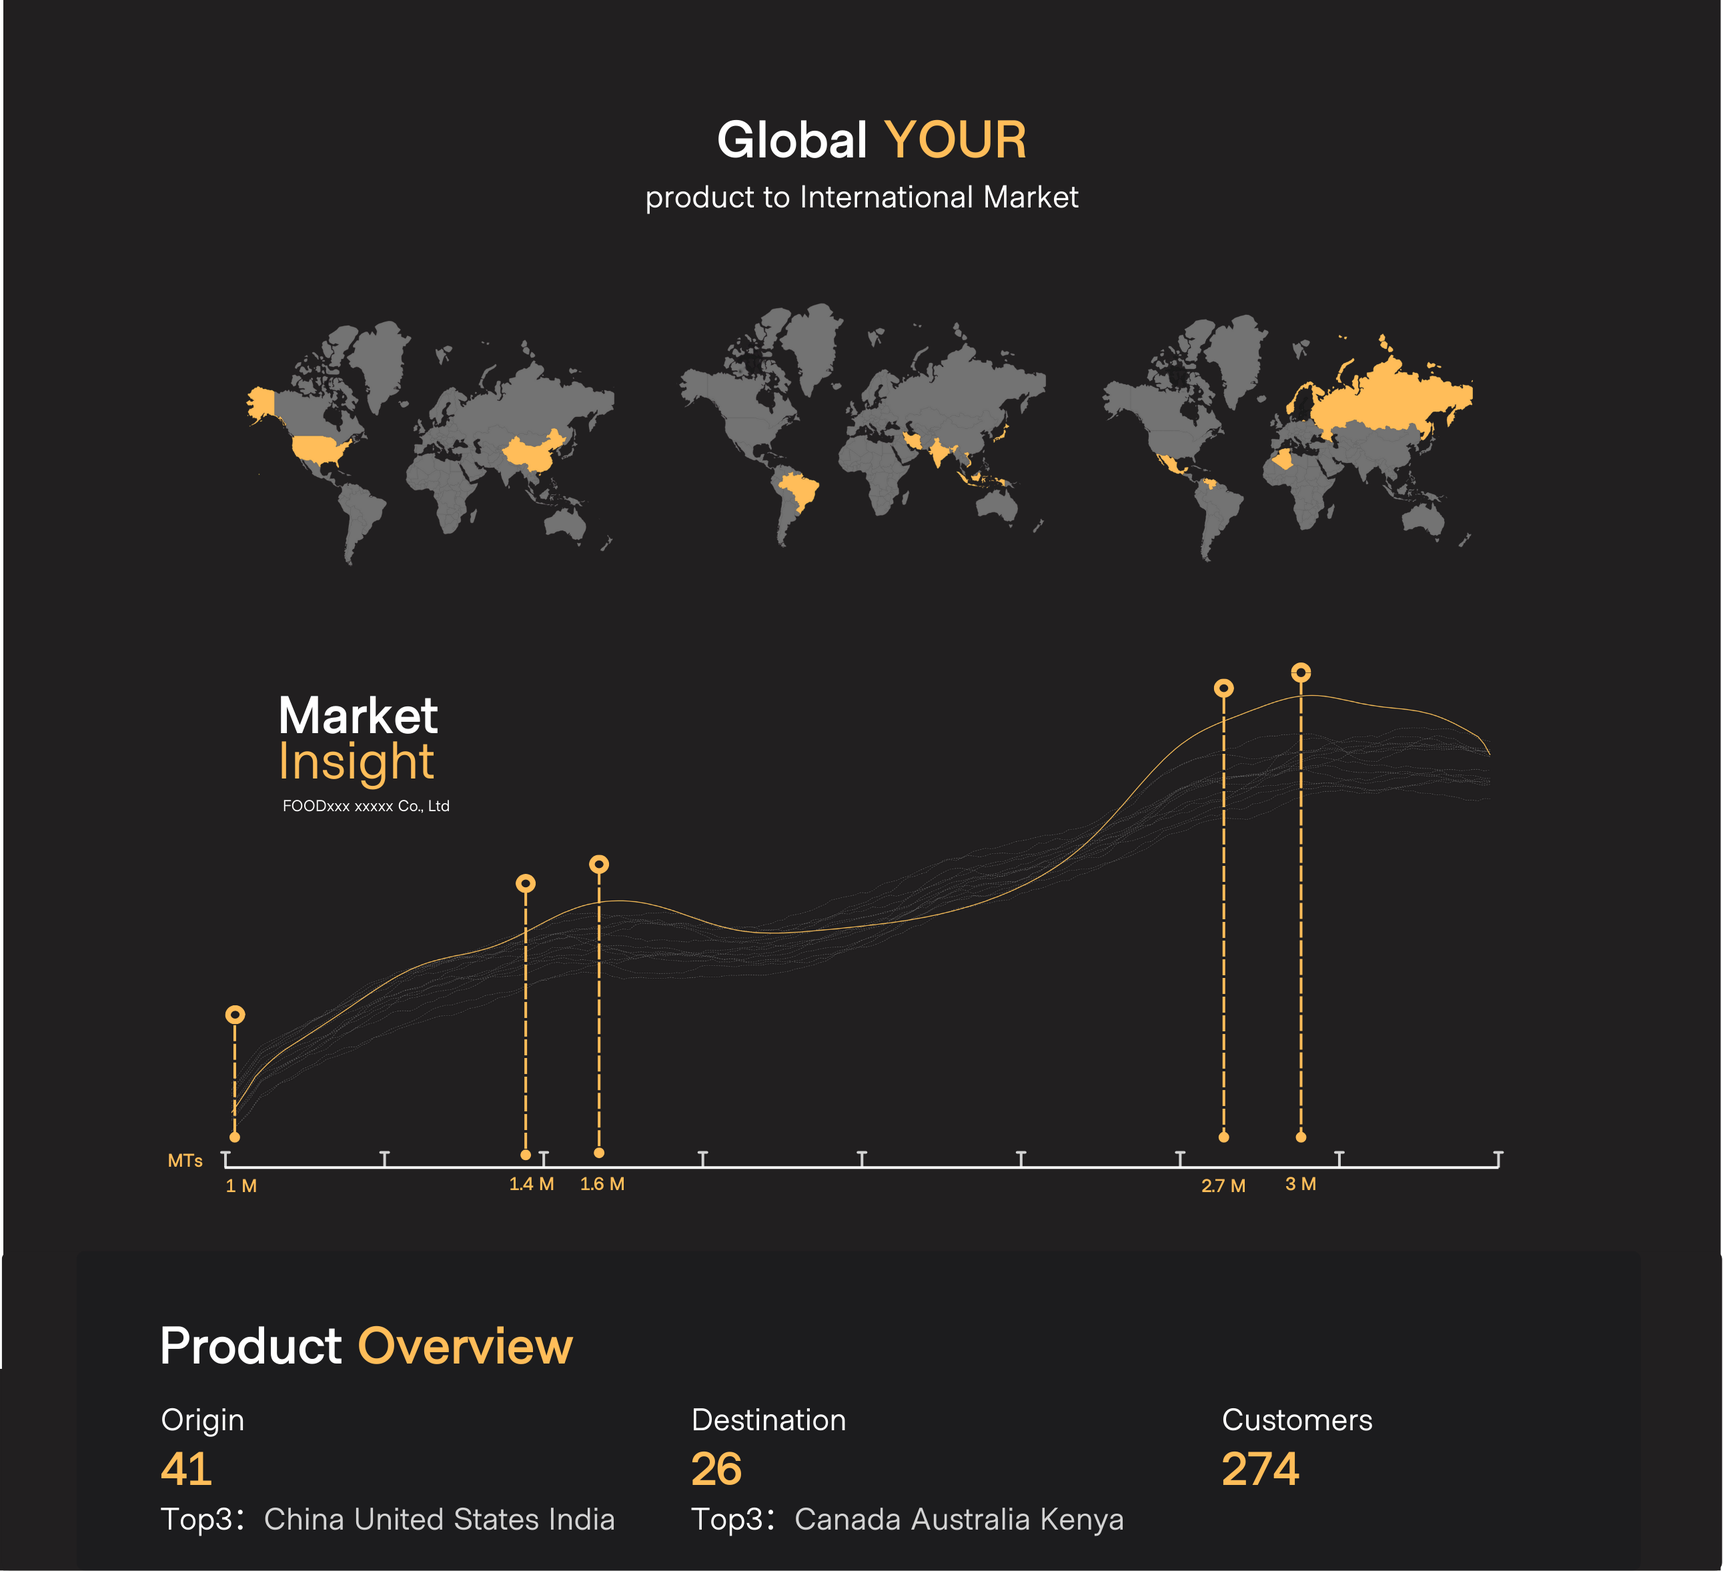
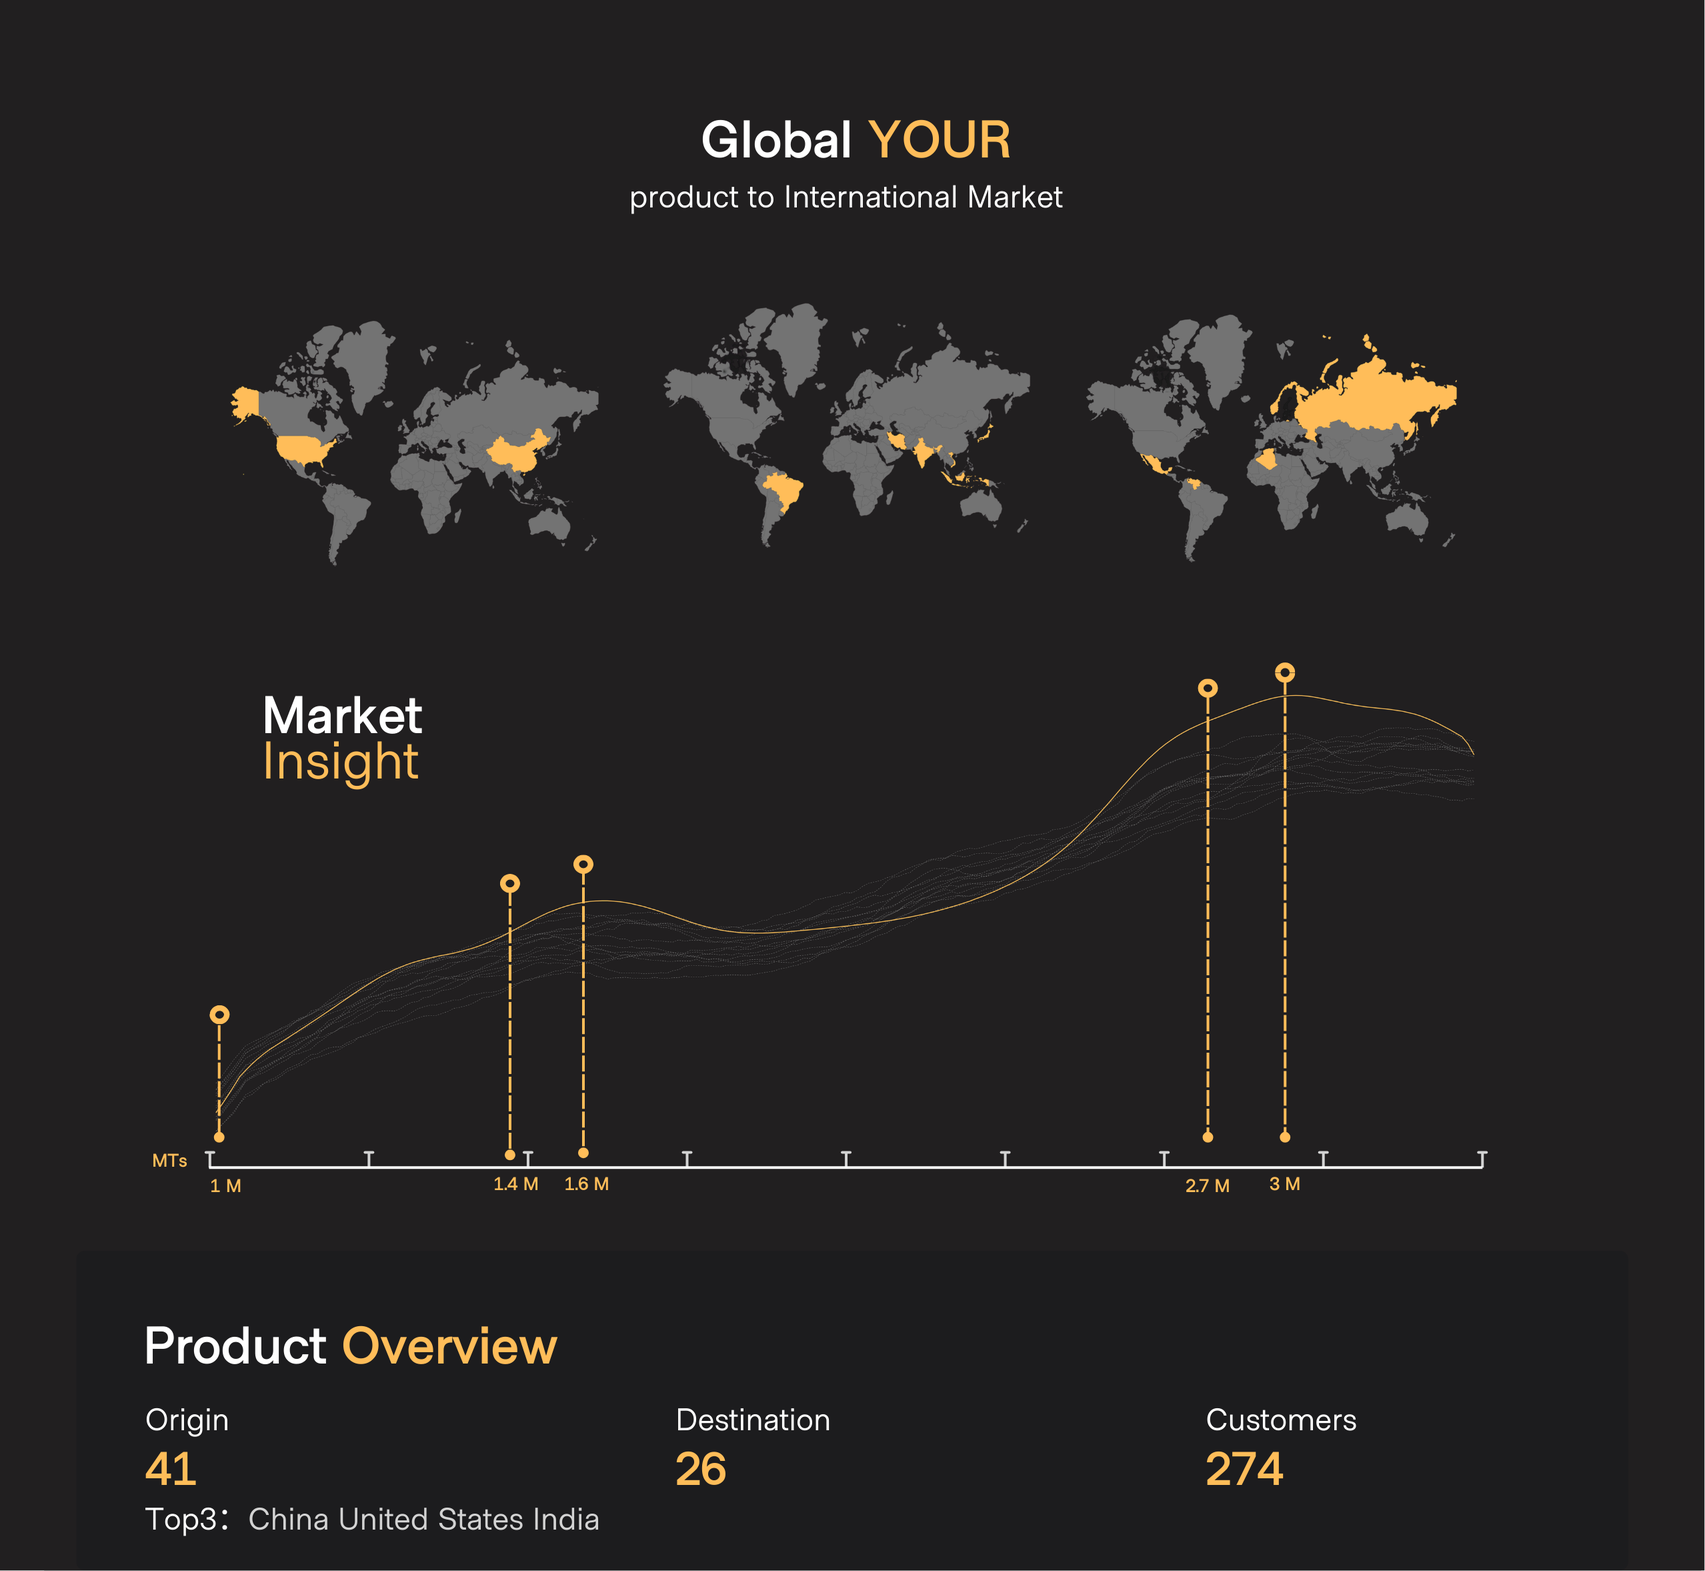
fix(home): fix color primary and design

diff --git a/src/modules/home/components/reviewSection/index.tsx b/src/modules/home/components/reviewSection/index.tsx
@@ -13,70 +13,70 @@ import { BiSolidQuoteLeft } from 'react-icons/bi'
 
 const reviews = [
   {
-    initials: 'SP',
+    sortName: 'SP',
     name: 'Somchai P.',
     role: 'Chief Data Officer',
     text: 'ก่อนทำงานกับ Origo เราใช้เวลาส่วนใหญ่ไปกับการลองผิดลองถูกหลายเดือน ทีมช่วยวิเคราะห์ให้ชัดขึ้นมาก',
     stars: 5
   },
   {
-    initials: 'NW',
+    sortName: 'NW',
     name: 'Nattaya W.',
     role: 'Founder & CEO',
     text: 'ทำให้เราเห็นชัดเลยว่าควรโฟกัสตลาดไหน และลูกค้าแบบไหน จากเดิมที่ตัดสินใจจากความรู้สึก',
     stars: 5
   },
   {
-    initials: 'PK',
+    sortName: 'PK',
     name: 'Prasert K.',
     role: 'Operations Manager',
     text: 'ยอดขายโตขึ้นอย่างมีทิศทาง และงานบริหารหลายอย่างมีระบบมากขึ้นอย่างเห็นได้ชัด',
     stars: 5
   },
   {
-    initials: 'AL',
+    sortName: 'AL',
     name: 'Anong L.',
     role: 'Export Director',
     text: 'ข้อมูลเชิงลึกช่วยให้ทีมขายคุยกับลูกค้าได้แม่นขึ้นและปิดดีลได้เร็วกว่าเดิม',
     stars: 5
   },
   {
-    initials: 'KT',
+    sortName: 'KT',
     name: 'Krit T.',
     role: 'Commercial Lead',
     text: 'เราลดการลองผิดลองถูกได้เยอะมาก ทุกคนในทีมเห็นภาพเดียวกันและเดินไปทางเดียวกัน',
     stars: 5
   },
   {
-    initials: 'SP',
+    sortName: 'SP',
     name: 'Somchai P.',
     role: 'Chief Data Officer',
     text: 'ก่อนทำงานกับ Origo เราใช้เวลาส่วนใหญ่ไปกับการลองผิดลองถูกหลายเดือน ทีมช่วยวิเคราะห์ให้ชัดขึ้นมาก',
     stars: 5
   },
   {
-    initials: 'NW',
+    sortName: 'NW',
     name: 'Nattaya W.',
     role: 'Founder & CEO',
     text: 'ทำให้เราเห็นชัดเลยว่าควรโฟกัสตลาดไหน และลูกค้าแบบไหน จากเดิมที่ตัดสินใจจากความรู้สึก',
     stars: 5
   },
   {
-    initials: 'PK',
+    sortName: 'PK',
     name: 'Prasert K.',
     role: 'Operations Manager',
     text: 'ยอดขายโตขึ้นอย่างมีทิศทาง และงานบริหารหลายอย่างมีระบบมากขึ้นอย่างเห็นได้ชัด',
     stars: 5
   },
   {
-    initials: 'AL',
+    sortName: 'AL',
     name: 'Anong L.',
     role: 'Export Director',
     text: 'ข้อมูลเชิงลึกช่วยให้ทีมขายคุยกับลูกค้าได้แม่นขึ้นและปิดดีลได้เร็วกว่าเดิม',
     stars: 5
   },
   {
-    initials: 'KT',
+    sortName: 'KT',
     name: 'Krit T.',
     role: 'Commercial Lead',
     text: 'เราลดการลองผิดลองถูกได้เยอะมาก ทุกคนในทีมเห็นภาพเดียวกันและเดินไปทางเดียวกัน',
@@ -108,26 +108,26 @@ const ReviewsCarousel: FC<ReviewSectionPropsType> = ({ id }) => {
         </div>
         <Carousel>
           <CarouselContent>
-            {reviews.map((r, i) => (
+            {reviews.map((review, i) => (
               <CarouselItem
                 key={i}
                 className="px-4 py-6 sm:basis-1/2 md:basis-1/3 lg:basis-1/4"
               >
-                <Card className="h-full bg-primary border-white/5 hover:border hover:border-secondary-color/40 hover:shadow-secondary-color/10 hover:shadow-[0_0_30px] duration-500 transform hover:-translate-y-1">
+                <Card className="h-full bg-primary border-white/5 hover:border hover:border-secondary-color/20 hover:shadow-secondary-color/20 hover:shadow-[0px_0px_20px] duration-500 transform hover:-translate-y-1">
                   <CardContent className="p-6 flex flex-col items-center text-center min-h-95">
                     <div className="h-20 w-20 rounded-full border border-muted-foreground/50 flex items-center justify-center text-xl text-white font-semibold">
-                      {r.initials}
+                      {review.sortName}
                     </div>
 
-                    <p className="mt-4 font-medium text-white">{r.name}</p>
-                    <p className="text-sm text-white/60">{r.role}</p>
+                    <p className="mt-4 font-medium text-white">{review.name}</p>
+                    <p className="text-sm text-white/60">{review.role}</p>
 
                     <p className="mt-4 text-sm text-white/60 leading-relaxed">
-                      {r.text}
+                      {review.text}
                     </p>
 
                     <div className="mt-auto flex gap-1 pt-4">
-                      {Array.from({ length: r.stars }).map((_, s) => (
+                      {Array.from({ length: review.stars }).map((_, s) => (
                         <Star
                           key={s}
                           className="h-4 w-4 fill-secondary-color text-secondary-color"

diff --git a/src/modules/home/components/areYouReadySection/index.tsx b/src/modules/home/components/areYouReadySection/index.tsx
@@ -60,34 +60,34 @@ const AreYouReadySection: FC<AreYouReadySectionPropsType> = ({ id }) => {
           </div>
           <Divider className="md:hidden" />
           <div>
-            <div className="relative w-full rounded-3xl p-5 md:p-6 bg-white/5 border-white/10 border hover:shadow-[0_0_10px] hover:shadow-secondary-color transition-all duration-300 hover:transform hover:-translate-1">
+            <div className="relative w-full rounded-3xl p-5 md:p-6 bg-primary border-white/10 border hover:border-secondary-color/20 hover:shadow-secondary-color/20 hover:shadow-[0px_0px_20px] duration-500 transform hover:-translate-y-1">
               <p className="text-white/70 pb-4 lg:text-lg">
                 สถานะ Market Signal ของคุณ
               </p>
               <div className="flex flex-col items-center pb-4">
-                <div className="flex h-24 w-24 items-center justify-center rounded-full border-2 border-white/20 text-3xl p-2 font-semibold text-secondary-color">
+                <div className="flex h-24 w-24 items-center justify-center rounded-full border-2 border-white/20 text-3xl p-2 mb-4 font-semibold text-secondary-color">
                   89%
                 </div>
-                <p className="text-white mt-2 font-semibold text-base lg:text-lg">
+                <p className="text-white mt-2 font-semibold text-lg">
                   พร้อมเติบโตอย่างมีทิศทาง
                 </p>
               </div>
               <div className="mb-4">
-                <div className="flex justify-between text-white/70 text-sm mb-1">
+                <div className="flex justify-between text-white mb-1">
                   <span>ทิศทางตลาด</span>
                   <span>88%</span>
                 </div>
                 <Progress value={88} />
               </div>
               <div className="mb-4">
-                <div className="flex justify-between text-white/70 text-sm mb-1">
+                <div className="flex justify-between text-white mb-1">
                   <span>ตำแหน่งทางตลาด</span>
                   <span>87%</span>
                 </div>
                 <Progress value={87} />
               </div>
               <div>
-                <div className="flex justify-between text-white/70 text-sm mb-1">
+                <div className="flex justify-between text-white mb-1">
                   <span>ข้อมูลในการตัดสินใจ</span>
                   <span>92%</span>
                 </div>

diff --git a/src/modules/aboutUs/index.tsx b/src/modules/aboutUs/index.tsx
@@ -51,7 +51,7 @@ const AboutUsPage: FC = () => {
             เข้าถึงลูกค้ากลุ่มเป้าหมายในตลาดโลกได้เร็วขึ้นและเติบโตได้อย่างยั่งยืน
           </p>
 
-          <div className="border border-white/20 py-6 px-10 rounded-3xl bg-[#1a1b1f]">
+          <div className="border border-white/20 py-6 px-10 rounded-3xl bg-primary">
             ประสบการณ์ที่ทำให้เราเข้าใจว่า{' '}
             <span className="text-secondary-color">“ตลาดโลก”</span> ไม่ได้ไกล
             เครื่องมือที่ดีช่วยให้เรามองหาโอกาสได้เร็วขึ้น
@@ -69,7 +69,7 @@ const AboutUsPage: FC = () => {
           สิ่งที่เราเชื่อ
         </h3>
         <div className="grid grid-cols-1 md:grid-cols-[0.8fr_1.2fr] gap-12 pb-12">
-          <div className="text-white/80 border rounded-3xl p-8 hover:scale-[1.02] duration-500 border-white/20 bg-[#1a1b1f] text-center">
+          <div className="text-white/80 border rounded-3xl p-8 hover:scale-[1.02] duration-500 border-white/20 bg-primary text-center">
             <div>ธุรกิจส่วนใหญ่มีโอกาสในการเติบโต</div>
             <AnimatedCounter
               end={92}
@@ -78,7 +78,7 @@ const AboutUsPage: FC = () => {
             />
             <div>เมื่อการตัดสินใจถูกจัดการด้วยระบบและข้อมูลที่ถูกต้อง</div>
           </div>
-          <div className="text-white/80 border rounded-3xl p-8 hover:scale-[1.02] duration-500 border-secondary-color/20 shadow-secondary-color/20 shadow-[0px_0px_20px] bg-[#1a1b1f] text-center">
+          <div className="text-white/80 border rounded-3xl p-8 hover:scale-[1.02] duration-500 border-secondary-color/20 shadow-secondary-color/20 shadow-[0px_0px_20px] bg-primary text-center">
             <div>เพื่อให้ผู้บริหารมีเวลาโฟกัสใน</div>
             <AnimatedCounter
               end={8}

diff --git a/src/modules/result/index.tsx b/src/modules/result/index.tsx
@@ -54,7 +54,7 @@ const ResultPage: FC = () => {
         <div className="flex h-24 w-24 items-center justify-center rounded-full border-2 border-white/20 text-3xl p-2 mb-4 font-semibold text-secondary-color">
           42%
         </div>
-        <h2 className="text-white mt-2 font-semibold md:text-lg">
+        <h2 className="text-white mt-2 font-semibold text-lg">
           เริ่มเห็นทิศทาง แต่ยังไม่ชัดเจน
         </h2>
         <p className="text-white/60 text-center text-sm md:text-base max-w-100 pt-2">
@@ -64,21 +64,21 @@ const ResultPage: FC = () => {
       </div>
       <div className="bg-primary p-6 mt-4 rounded-2xl">
         <div className="mb-4">
-          <div className="flex justify-between text-white text-sm md:text-base mb-1">
+          <div className="flex justify-between text-white text-base mb-1">
             <span>ทิศทางตลาด</span>
             <span>88%</span>
           </div>
           <Progress value={88} />
         </div>
         <div className="mb-4">
-          <div className="flex justify-between text-white text-sm md:text-base mb-1">
+          <div className="flex justify-between text-white text-base mb-1">
             <span>ตำแหน่งทางตลาด</span>
             <span>87%</span>
           </div>
           <Progress value={87} />
         </div>
         <div>
-          <div className="flex justify-between text-white text-sm md:text-base mb-1">
+          <div className="flex justify-between text-white text-base mb-1">
             <span>ข้อมูลในการตัดสินใจ</span>
             <span>92%</span>
           </div>

diff --git a/src/modules/home/components/resultSection/index.tsx b/src/modules/home/components/resultSection/index.tsx
@@ -126,7 +126,7 @@ const ResultSection: FC<ResultSectionPropsType> = ({ id }) => {
           </div>
 
           <div className="grid gap-4 grid-cols-1 md:grid-cols-2 md:gap-6 md:mt-8">
-            <div className="card-lift rounded-2xl border border-white/20 p-4 md:px-8 md:py-10 text-center hover:transform hover:-translate-y-2 duration-500 hover:shadow-[0_0_10px] hover:shadow-secondary-color group">
+            <div className="card-lift rounded-2xl border border-white/20 p-4 md:px-8 md:py-10 text-center hover:transform hover:-translate-y-2 duration-500 hover:border-secondary-color/20 hover:shadow-secondary-color/20 hover:shadow-[0px_0px_20px]">
               <p className="text-lg text-white/80 sm:text-2xl md:text-3xl lg:text-4xl">
                 ฐานลูกค้าเติบโต
               </p>
@@ -142,7 +142,7 @@ const ResultSection: FC<ResultSectionPropsType> = ({ id }) => {
               </div>
             </div>
 
-            <div className="card-lift rounded-2xl border border-white/20 p-4 md:px-8 md:py-10 text-center  hover:transform hover:-translate-y-2 duration-500 hover:shadow-[0_0_10px] hover:shadow-secondary-color">
+            <div className="card-lift rounded-2xl border border-white/20 p-4 md:px-8 md:py-10 text-center  hover:transform hover:-translate-y-2 duration-500 hover:border-secondary-color/20 hover:shadow-secondary-color/20 hover:shadow-[0px_0px_20px]">
               <p className="text-lg text-white/80 sm:text-2xl md:text-3xl lg:text-4xl">
                 ต้นทุนหาลูกค้าลดลง
               </p>

diff --git a/src/modules/home/components/helpYouSection/index.tsx b/src/modules/home/components/helpYouSection/index.tsx
@@ -28,7 +28,7 @@ const HelpYouSection: FC<HelpYouSectionPropsType> = ({ id }) => {
             </div>
             <div className="pt-4">
               <div className="flex items-center gap-2 pb-4">
-                <div className="text-secondary-color-hover/90 text-[36px] lg:text-[46px]">
+                <div className="text-secondary-color text-[36px] lg:text-[46px]">
                   <TbEyeCheck />
                 </div>
                 <div className="text-white text-lg md:text-xl lg:text-3xl">
@@ -36,7 +36,7 @@ const HelpYouSection: FC<HelpYouSectionPropsType> = ({ id }) => {
                 </div>
               </div>
               <div className="flex items-center gap-2 md:gap-4 pb-4">
-                <div className="text-secondary-color-hover/90 text-[36px] lg:text-[46px]">
+                <div className="text-secondary-color text-[36px] lg:text-[46px]">
                   <TbTargetArrow />
                 </div>
                 <div className="text-white text-lg md:text-xl lg:text-3xl">
@@ -47,7 +47,7 @@ const HelpYouSection: FC<HelpYouSectionPropsType> = ({ id }) => {
                 </div>
               </div>
               <div className="flex items-center gap-2 md:gap-4 pb-4">
-                <div className="text-secondary-color-hover/90 text-[36px] lg:text-[46px]">
+                <div className="text-secondary-color text-[36px] lg:text-[46px]">
                   <FiCheckCircle />
                 </div>
                 <div className="text-white text-lg md:text-xl lg:text-3xl">

diff --git a/src/components/layout/footer/index.tsx b/src/components/layout/footer/index.tsx
@@ -1,6 +1,7 @@
 import Divider from '@/components/divider'
 import FullLogoWhite from '@/assets/full_logo_white.png'
 import { type FC } from 'react'
+import { HiPhone } from 'react-icons/hi2'
 
 type FooterLink = {
   href: string
@@ -39,9 +40,15 @@ export const FooterBrand: FC = () => {
               <img src={FullLogoWhite} />
             </div>
             <div className="text-white/60">บริษัท โอริโก้ คอนซัลติ้ง จำกัด</div>
-            <span className="text-sm flex gap-2 items-center justify-center">
-              098-765-4321
-            </span>
+            <a
+              href="tel:+66800693160"
+              className="text-sm flex gap-2 justify-center pt-2 group"
+            >
+              <div className="group-hover:transform group-hover:-translate-y-1 group-hover:text-secondary-color duration-500">
+                <HiPhone size={18} />
+              </div>
+              080-069-3160
+            </a>
             <p className="mt-3 text-sm text-white/60">
               Market Intelligence for International Trade
             </p>

diff --git a/src/index.css b/src/index.css
@@ -16,7 +16,7 @@
 
 :root {
   /* --primary-color: #141414; */
-  --secondary-color: #ffa726;
+  --secondary-color: #ffbd59;
   --secondary-color-hover: #ffcd85;
   --radius: 0.625rem;
   --background: lab(2.75381% 0 0);
